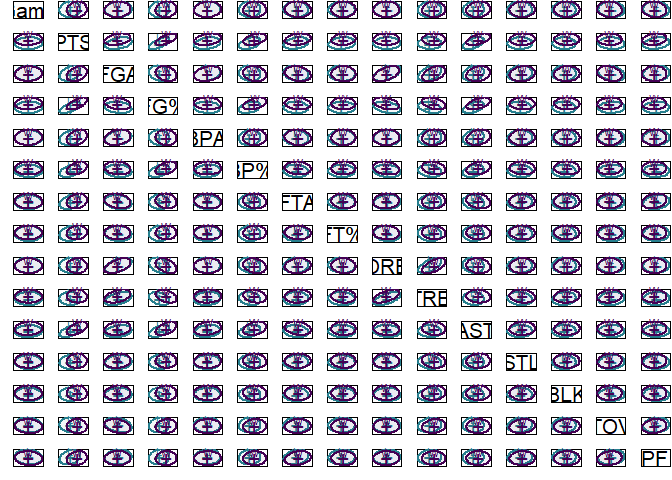
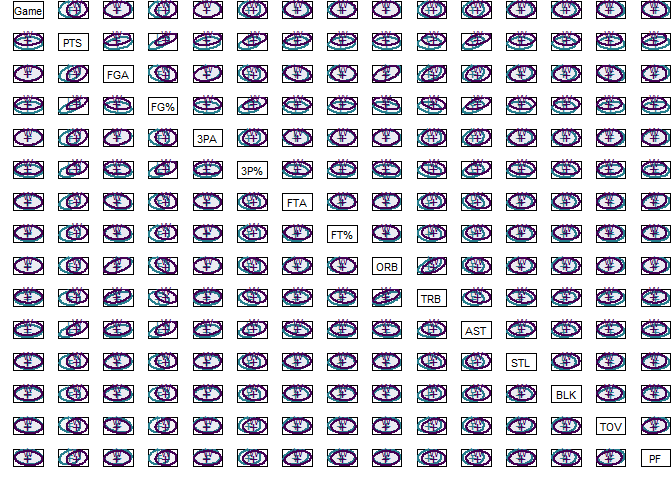
fixed color, text size

diff --git a/NBAStats.md b/NBAStats.md
@@ -999,7 +999,7 @@ df.roc <- rbind(data.frame(x.vals=simple.roc@x.values[[1]], y.vals=simple.roc@y.
                 data.frame(x.vals=lasso.roc@x.values[[1]], y.vals=lasso.roc@y.values[[1]], model="lasso"),
                 data.frame(x.vals=custom.roc@x.values[[1]], y.vals=custom.roc@y.values[[1]], model="custom"))
 df.roc$model <- factor(df.roc$model, levels = c("simple", "bkw", "step", "lasso", "custom"))
-df.roc %>% ggplot(aes(x=x.vals,y=y.vals, color = model))+geom_line(size=.55)+theme_cowplot()+labs(x="False positive rate", y="True positive rate")+scale_color_viridis_d(direction = -1)
+df.roc %>% ggplot(aes(x=x.vals,y=y.vals, color = model))+geom_line(size=.55)+theme_cowplot()+labs(x="False positive rate", y="True positive rate")+scale_color_viridis_d(direction = -1, end = .98)
 ```
 
 ![](NBAStats_files/figure-markdown_github/roc%20plot-1.png)
@@ -2168,7 +2168,7 @@ Create QDA LDA models
 
 ``` r
 #quick assumption check of equal covariances by using ellispes plot
-covEllipses(train.num[,2:16], train.num$WINorLOSS, fill = TRUE, pooled = FALSE, variables = 1:15, col = c("#277f8e","#440154"), fill.alpha = .05)
+covEllipses(train.num[,2:16], train.num$WINorLOSS, fill = TRUE, pooled = FALSE, variables = 1:15, col = c("#277f8e","#440154"), fill.alpha = .05, center.cex = 1.5, var.cex = 1)
 ```
 
 ![](NBAStats_files/figure-markdown_github/LDA%20QDA-1.png)
@@ -2596,16 +2596,11 @@ complex.mod.full <- glm(formula = WINorLOSS ~ Team + Home + Opp + PTS + FGA +
 complex.pred.full <- predict(complex.mod.full, complexdata, type = "response")
 complex.auc.full <- performance(prediction(complex.pred.full, complexdata$WINorLOSS),"auc")
 complex.auc.full <- complex.auc.full@y.values[[1]]
-complex.pred.full <- ifelse(complex.pred>.5, "W", "L")
-```
-
-    ## Warning in Ops.factor(complex.pred, 0.5): '>' not meaningful for factors
-
-``` r
+complex.pred.full <- ifelse(complex.pred.full < .5, "W", "L")
 complex.pred.full <- factor(complex.pred.full, levels = c("W", "L"))
 complexdata$WINorLOSS <- factor(complexdata$WINorLOSS, levels = c("W", "L"))
 
-cm.complex.full <- confusionMatrix(factor(ifelse(complex.mod.full$fitted.values>.5,"W","L"),levels = c("W","L")),complexdata$WINorLOSS)
+cm.complex.full <- confusionMatrix(complex.pred.full, complexdata$WINorLOSS)
 cm.complex.full
 ```
 
@@ -2613,26 +2608,26 @@ cm.complex.full
     ## 
     ##           Reference
     ## Prediction    W    L
-    ##          W 4226  672
-    ##          L  694 4248
+    ##          W  694 4248
+    ##          L 4226  672
     ##                                          
-    ##                Accuracy : 0.8612         
-    ##                  95% CI : (0.8542, 0.868)
+    ##                Accuracy : 0.1388         
+    ##                  95% CI : (0.132, 0.1458)
     ##     No Information Rate : 0.5            
-    ##     P-Value [Acc > NIR] : <2e-16         
+    ##     P-Value [Acc > NIR] : 1.0000         
     ##                                          
-    ##                   Kappa : 0.7224         
+    ##                   Kappa : -0.7224        
     ##                                          
-    ##  Mcnemar's Test P-Value : 0.5699         
+    ##  Mcnemar's Test P-Value : 0.8195         
     ##                                          
-    ##             Sensitivity : 0.8589         
-    ##             Specificity : 0.8634         
-    ##          Pos Pred Value : 0.8628         
-    ##          Neg Pred Value : 0.8596         
-    ##              Prevalence : 0.5000         
-    ##          Detection Rate : 0.4295         
-    ##    Detection Prevalence : 0.4978         
-    ##       Balanced Accuracy : 0.8612         
+    ##             Sensitivity : 0.14106        
+    ##             Specificity : 0.13659        
+    ##          Pos Pred Value : 0.14043        
+    ##          Neg Pred Value : 0.13720        
+    ##              Prevalence : 0.50000        
+    ##          Detection Rate : 0.07053        
+    ##    Detection Prevalence : 0.50224        
+    ##       Balanced Accuracy : 0.13882        
     ##                                          
     ##        'Positive' Class : W              
     ## 
@@ -2697,13 +2692,13 @@ Custom
 Complex
 </td>
 <td style="text-align:right;width: 0.5in; ">
-0.8611789
+0.1388211
 </td>
 <td style="text-align:right;">
-0.8589431
+0.1410569
 </td>
 <td style="text-align:right;">
-0.8634146
+0.1365854
 </td>
 <td style="text-align:right;">
 0.9414364
